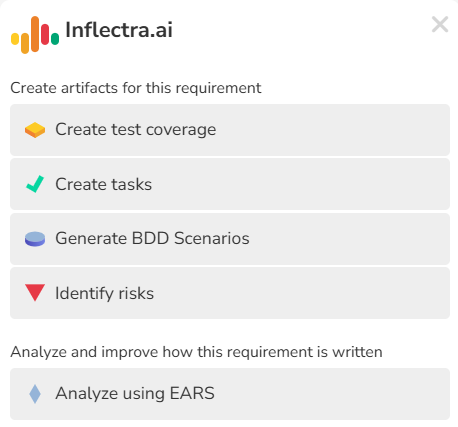
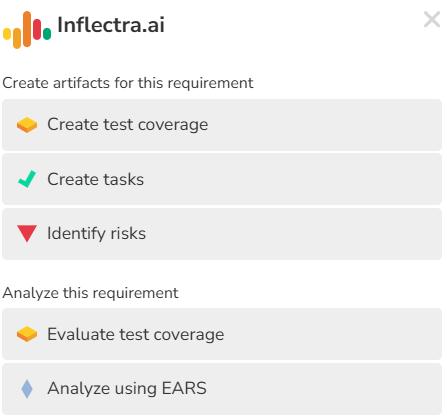
Merge branch 'inflectraai-26w19'

Pull request: Inflectraai 26w19
This adds documentation for the RQ Coverage feature for Inflectra.ai

diff --git a/docs/Spira-User-Manual/Inflectra-Ai-In-Spira.md b/docs/Spira-User-Manual/Inflectra-Ai-In-Spira.md
@@ -92,6 +92,22 @@ When generating content for a requirement, the following information is provided
 - Names of the parent, grandparent, and so on, of the requirement (its hierarchy)
 - The product name of the product the requirement is in
 
+#### Requirement Test Coverage
+
+From the requirement details page you can evaluate how well the requirement is covered by its test cases. This feature analyzes the requirement and produces a structured coverage report.
+
+- **What data is considered**: The analysis considers the requirement's name, description, and steps/scenarios. For broader context, it also looks at the parent requirement hierarchy, sibling requirements, and the product name. Each linked test case is evaluated using its name, type, description, and all test steps.
+- **How sibling requirements are used**: Sibling requirements (other children of the same parent) help define what is out of scope for the current requirement. If a testable topic is clearly a sibling's responsibility, it won't be flagged as a coverage gap. This means well-structured requirement hierarchies produce more accurate results. Up to 30 siblings are considered.
+- **What the output includes**: The report provides an overall coverage percentage, a breakdown of testable topics with their mapped test cases, a list of uncovered topics, and actionable suggestions for improving coverage. If a linked test case appears unrelated to the requirement, it will be flagged as a potential mislink and won't count toward coverage.
+- **Requirements for the analysis to run**:
+
+    - At least one test case must be linked to the requirement.
+    - The requirement must have either steps/scenarios or a description with at least 5 words.
+    - The total number of test steps across all linked test cases must not exceed 500.
+    - The requirement must not have more than 100 steps/scenarios.
+
+    If any of these conditions are not met, a message will explain why the analysis could not be completed.
+
 #### Requirement Analysis
 From the requirement details page you can analyze the requirement to see how well it is written and organized, based off specific frameworks. This provides valuable insights into the quality of the text and how effectively it may communicate its meaning to others.
 

diff --git a/docs/About/release-notes-inflectra.ai-v1.md b/docs/About/release-notes-inflectra.ai-v1.md
@@ -1,5 +1,12 @@
 # Release Notes for Inflectra.ai
 
+## May 15 2026
+
+!!! success "New features"
+    - **[Requirement Test Coverage](../Spira-User-Manual/Inflectra-Ai-In-Spira.md/#requirement-test-coverage)**
+
+        - As an Inflectra.ai and Requirement user, from a Requirement details page, I can evaluate the Test Coverage of the Requirement using Inflectra.ai [RQ:5626]
+
 ## April 20 2026
 
 !!! bug "Bug fixes and enhancements"

diff --git a/docs/About/roadmap.md b/docs/About/roadmap.md
@@ -13,10 +13,13 @@
 Please take a look at our [release notes](release-notes-v8.md) to see a complete list of the changes (large and small) that we have recently delivered.
 
 ## Q2 2026
+- Enhanced security with the ability to enforce users to have MFA authentication configured
 - Intelligent test coverage analysis for a requirement
 - Build in chatbot to provide intelligent help and answer questions about how to use Spira
-- Natural language custom report creation for administrators, using Inflectra.ai agents
 - Spira MCP Server providing an AI-friendly interface to Spira data, enabling tighter integration with AI-powered development tools like Kiro and Claude Code
+
+## Q3 2026
+- Natural language custom report creation for administrators, using Inflectra.ai agents
 
 ## Longer term thematic ideas
 The list below are features that we are focused on delivering but not in the above timeline. We look for ways to deliver each (all or in part) with smaller enhancements in the short-term, or to integrate them into our timeline based on user feedback.